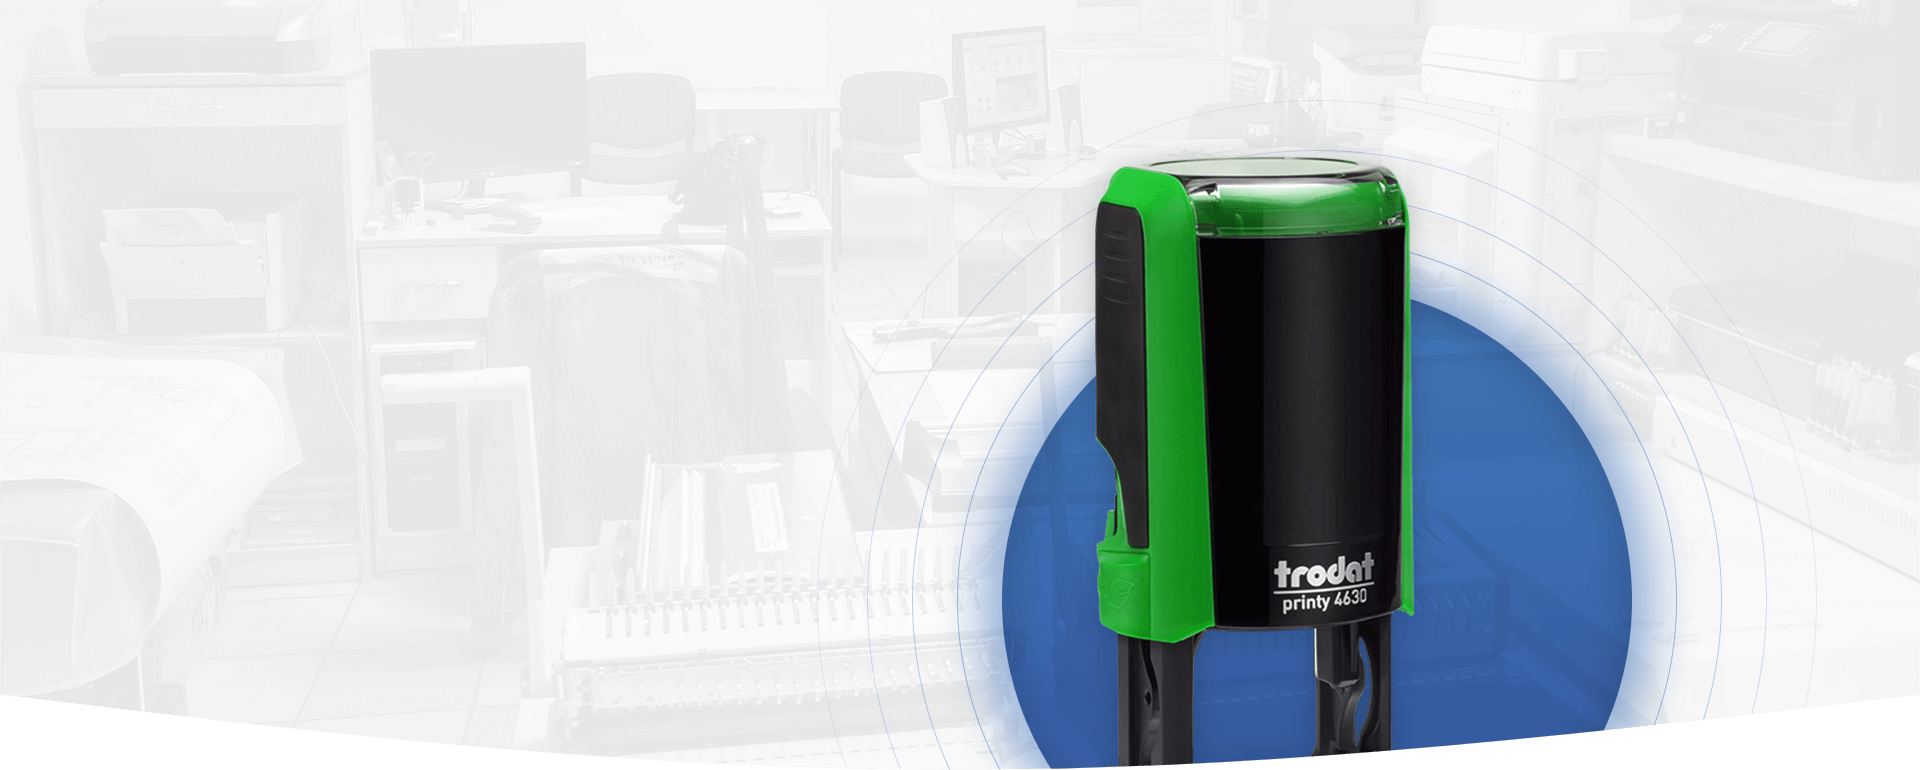
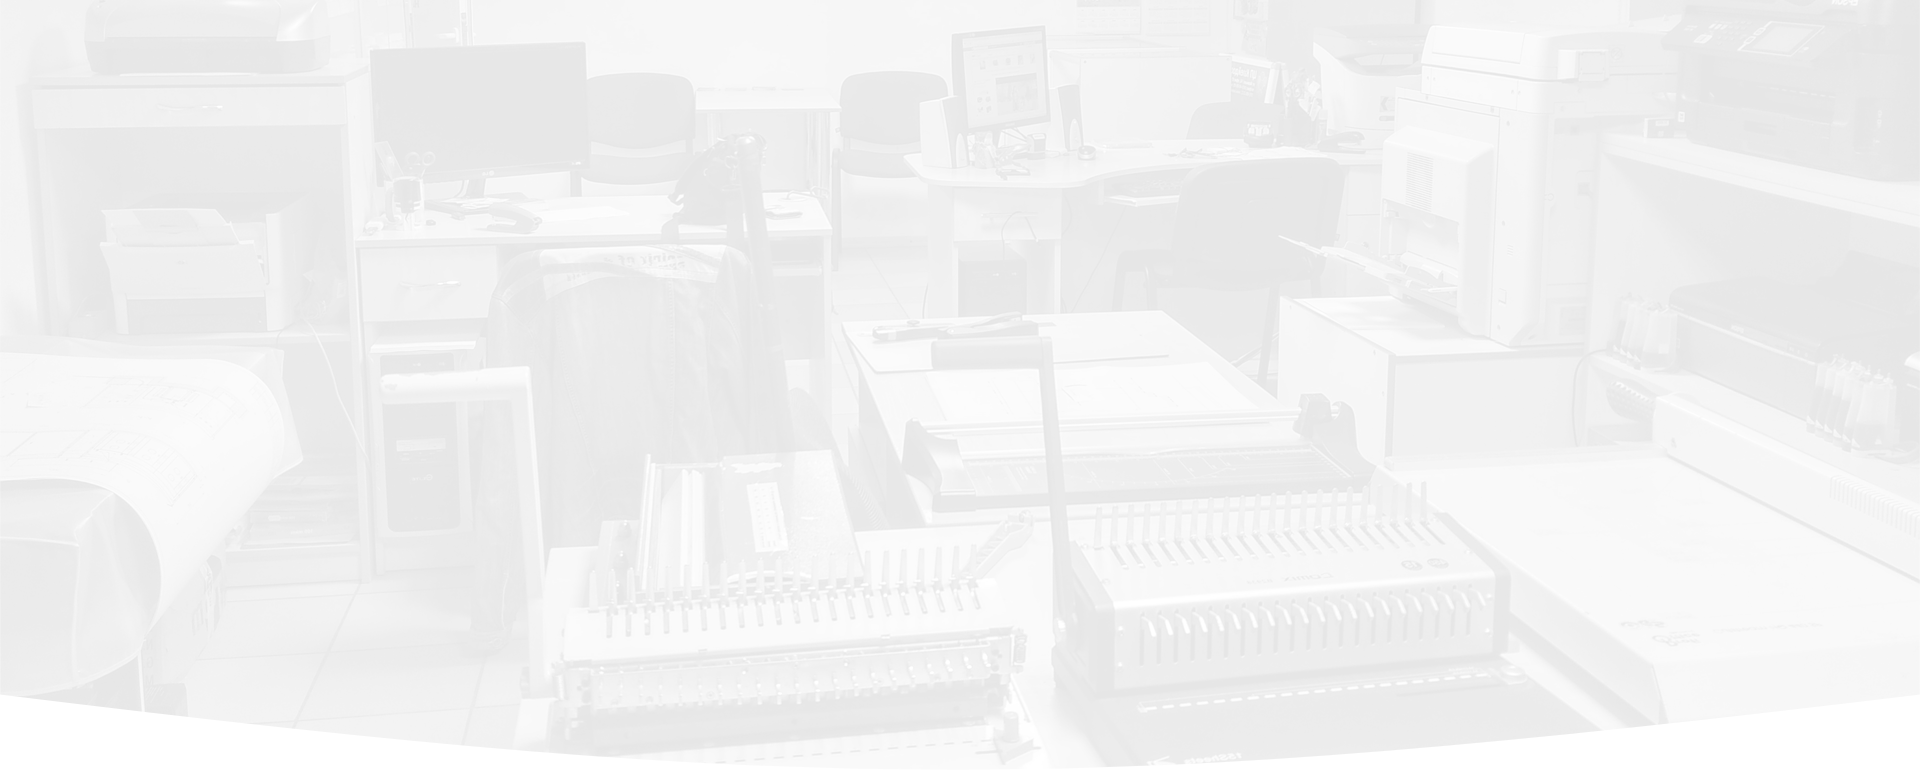
анімація в header

Changed region(s): [[0.5, 0.187, 0.875, 1.0]]

diff --git a/app/sass/main.sass b/app/sass/main.sass
@@ -75,8 +75,17 @@
 				color: $accent
 
 	&-section
+		position: relative
 		padding: 220px 0 115px 0
 		background: no-repeat center / cover
+		z-index: 2
+
+		&-bg__bottom
+			position: absolute
+			bottom: 0
+			left: -10px
+			right: 0
+			z-index: 1
 
 		p
 			text-transform: uppercase
@@ -103,6 +112,60 @@
 				border-radius: 2px
 			&:last-child
 				margin-bottom: 0
+
+.circle
+	position: absolute
+	left: 52%
+	top: 37%
+	width: 630px
+	height: 630px
+	background: rgba(61, 109, 179, .8)
+	border-radius: 100%
+	z-index: -1
+	box-shadow: -20px -20px 100px rgba(36, 95, 179, .5), inset 0 0 50px rgba(36, 95, 179, .5)
+	&::before
+		content: ''
+		position: absolute
+		left: 0
+		width: 100%
+		height: 100%
+		opacity: .1
+		border-radius: 100%
+		border: 1px solid $accent
+		animation: pulse 2.5s .6s linear infinite
+		z-index: 1
+	&::after
+		content: ''
+		position: absolute
+		left: 0
+		width: 100%
+		height: 100%
+		opacity: .1
+		border-radius: 100%
+		border: 1px solid $accent
+		animation: pulse 2.5s 1.2s linear infinite
+		z-index: 1
+	
+	img
+		position: absolute
+		top: -24%
+		left: 10%
+		z-index: 2
+
+	div
+		position: absolute
+		left: 0
+		width: 100%
+		height: 100%
+		opacity: .1
+		border-radius: 100%
+		border: 1px solid $accent
+		animation: pulse 2.5s 1.6s linear infinite
+		z-index: 1
+		&:nth-child(2)
+			animation: pulse 2.5s 2s linear infinite
+		&:nth-child(3)
+			animation: pulse 2.5s 2.4s linear infinite
 
 .nav
 	ul
@@ -507,16 +570,7 @@
 	.services__bg
 		left: 0
 		top: 0
-	
-	@keyframes pulse
-		0%
-			transform: scale(.9)
-			opacity: 0
-		50%
-			opacity: .4
-		100%
-			transform: scale(2)
-			opacity: 0
+
 
 .map
 	position: relative
@@ -602,5 +656,15 @@
 			text-transform: uppercase
 			color: #bfbfbf
 
+
+@keyframes pulse
+	0%
+		transform: scale(.9)
+		opacity: 0
+	50%
+		opacity: .4
+	100%
+		transform: scale(1.6)
+		opacity: 0
 
 @import "media" // Always at the end

diff --git a/app/sass/_media.sass b/app/sass/_media.sass
@@ -1,5 +1,8 @@
 
 @media only screen and (max-width : 1200px)
+	.circle
+		left: 60%
+
 	.header
 		&-section
 			padding: 150px 0 100px 0
@@ -63,6 +66,9 @@
 @media only screen and (max-width : 992px)
 	h1
 		font-size: 40px
+
+	.circle
+		left: 75%
 
 	.section
 		padding: 40px 0
@@ -189,6 +195,9 @@
 
 @media only screen and (max-width : 767px)
 
+	.circle
+		display: none
+
 	.header
 		&-section
 			padding: 125px 0 50px 0
@@ -199,6 +208,9 @@
 
 			ul
 				margin-bottom: 30px
+
+			&-bg__bottom
+				display: none
 
 	.about
 		&__list

diff --git a/app/index.html b/app/index.html
@@ -68,6 +68,11 @@
 	<main class="main">
 
 		<section class="header-section" style="background-image: url(img/header-bg.png);">
+			<img src="img/header-bg__bottom.png" alt="bg" class="header-section-bg__bottom">
+			<div class="circle">
+				<div></div><div></div><div></div>
+				<img src="img/header-section__stamp.png" alt="bg">
+			</div>
 			<div class="container">
 
 				<h1>Изготовление <br>печатей и штампов</h1>
